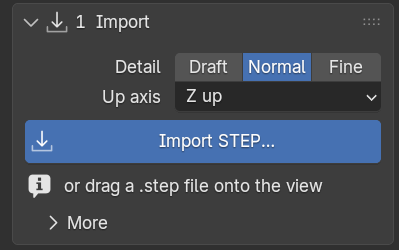
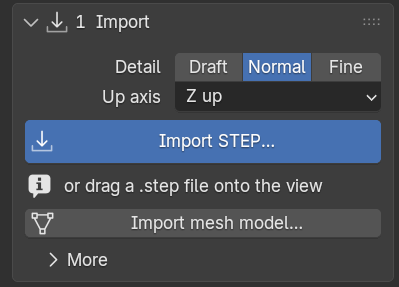
Task 0117: Import panel picture, shorter mesh button label
Claude-Session: https://claude.ai/code/session_01LGPBd7mNjAF7sLDhgwXi3n

diff --git a/fresing_render/blender/ui.py b/fresing_render/blender/ui.py
@@ -165,7 +165,7 @@ class FRESING_PT_import(_Panel, bpy.types.Panel):
             col.prop(s, "import_up_axis", text="Up axis")
             primary(layout, "fresing.import_step", "Import STEP…", "IMPORT")
             layout.label(text="or drag a .step file onto the view", icon="INFO")
-            layout.operator("fresing.import_mesh", text="Import mesh model (glTF, OBJ, FBX)…", icon="MESH_DATA")
+            layout.operator("fresing.import_mesh", text="Import mesh model…", icon="MESH_DATA")
 
         for root in build.model_roots(context.scene):
             box = layout.box()

diff --git a/docs/USER-GUIDE.md b/docs/USER-GUIDE.md
@@ -250,7 +250,7 @@ A model you did not draw yourself – a vessel or a truck downloaded from Sketch
 comes in like a STEP model: an explorer tree, groups and looks, joints, poses, animation, clash check, renders
 and the web 3D model.
 
-1. **File > Import > Mesh model (glTF, OBJ, FBX)…**, the button **Import mesh model (glTF, OBJ, FBX)…** under
+1. **File > Import > Mesh model (glTF, OBJ, FBX)…**, the button **Import mesh model…** under
    Import STEP, or drag a .glb, .gltf, .obj or .fbx file onto the view.
 2. In the file browser (the gear at the top right) three settings:
    - **Units**: glTF is always in metres and FBX says its own units. An OBJ file does not: **Auto** guesses
